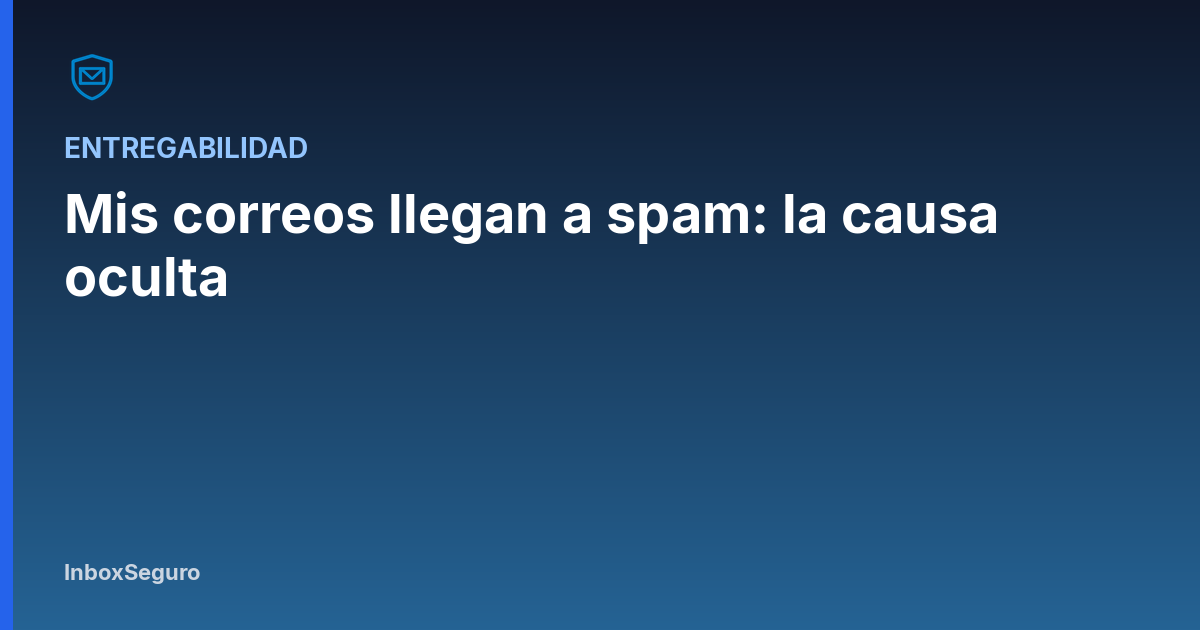
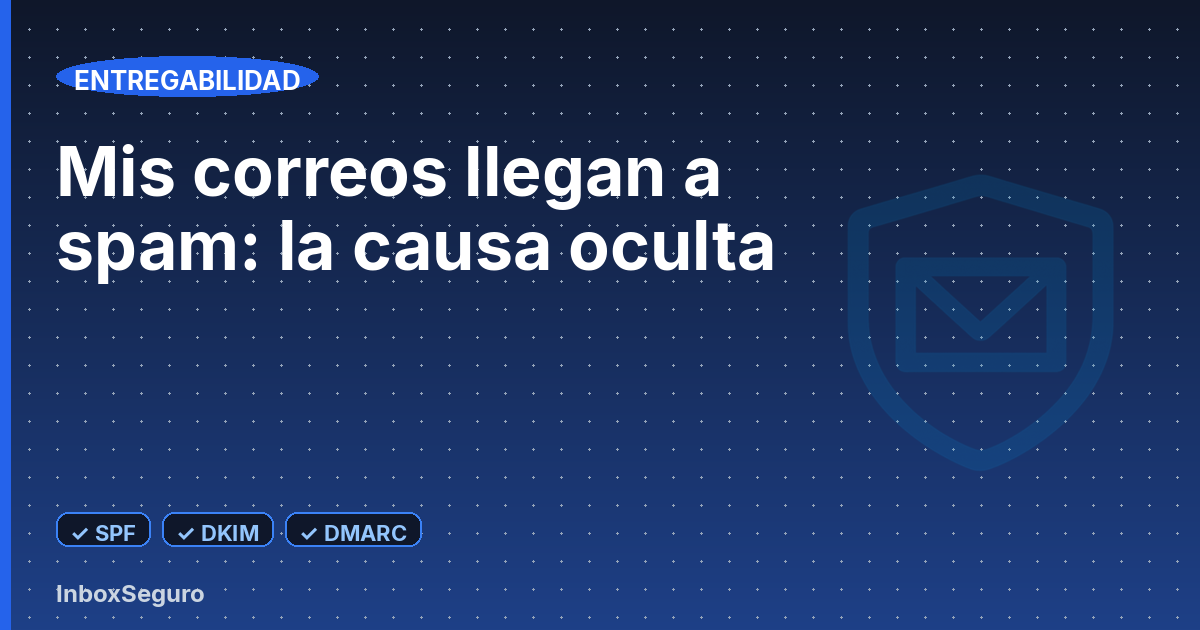
fix(blog): portadas con título grande, píldora y trama de marca
Rediseña covers 1200x630 (categoría en píldora, escudo semitransparente,
chips SPF/DKIM/DMARC, trama) y regenera la del artículo de ejemplo.

diff --git a/blog/index.html b/blog/index.html
@@ -23,7 +23,7 @@
     <link href="https://fonts.googleapis.com/css2?family=Inter:wght@300;400;500;600;700;800&display=swap" rel="stylesheet">
     <link rel="stylesheet" href="https://cdnjs.cloudflare.com/ajax/libs/font-awesome/6.4.0/css/all.min.css">
     <link rel="stylesheet" href="/styles.css?v=1.0.7">
-    <link rel="stylesheet" href="/blog.css?v=1.1.0">
+    <link rel="stylesheet" href="/blog.css?v=1.2.1">
     
 </head>
 <body class="bg-white text-slate-800 antialiased relative min-h-screen flex flex-col">

diff --git a/scripts/build_blog.py b/scripts/build_blog.py
@@ -375,7 +375,8 @@ def _cover_fingerprint(title: str, category_label: str, logo_path: Path) -> str:
     logo_hash = ""
     if logo_path.is_file():
         logo_hash = hashlib.sha256(logo_path.read_bytes()).hexdigest()[:16]
-    payload = f"v1|{title}|{category_label}|{logo_hash}"
+    # v2: tipografía grande, píldora de categoría, trama y chips SPF/DKIM/DMARC
+    payload = f"v2|{title}|{category_label}|{logo_hash}"
     return hashlib.sha256(payload.encode("utf-8")).hexdigest()[:24]
 
 
@@ -417,47 +418,81 @@ def generate_cover_png(post: Post, force: bool = False) -> Path | None:
     img = Image.new("RGB", (width, height), "#0f172a")
     draw = ImageDraw.Draw(img)
 
-    # Degradado simple azul oscuro → azul marca
+    # Degradado azul oscuro → marca
     for y in range(height):
         t = y / (height - 1)
-        r = int(15 + (37 - 15) * t)
-        g = int(23 + (99 - 23) * t)
-        b = int(42 + (235 - 42) * t * 0.55)
+        r = int(15 + (30 - 15) * t)
+        g = int(23 + (64 - 23) * t)
+        b = int(42 + (175 - 42) * t * 0.7)
         draw.line([(0, y), (width, y)], fill=(r, g, b))
 
-    # Acento
-    draw.rectangle([0, 0, 12, height], fill="#2563eb")
+    # Trama sutil (puntos)
+    for x in range(28, width, 28):
+        for y in range(28, height, 28):
+            draw.ellipse([x, y, x + 2, y + 2], fill=(148, 163, 184,))
+
+    # Acento izquierdo
+    draw.rectangle([0, 0, 10, height], fill="#2563eb")
 
     font_path = _find_inter_font()
     if font_path:
-        font_cat = ImageFont.truetype(str(font_path), 28)
-        font_title = ImageFont.truetype(str(font_path), 54)
-        font_brand = ImageFont.truetype(str(font_path), 22)
+        font_cat = ImageFont.truetype(str(font_path), 26)
+        font_title = ImageFont.truetype(str(font_path), 68)
+        font_brand = ImageFont.truetype(str(font_path), 24)
+        font_chip = ImageFont.truetype(str(font_path), 22)
     else:
         font_cat = ImageFont.load_default()
         font_title = ImageFont.load_default()
         font_brand = ImageFont.load_default()
+        font_chip = ImageFont.load_default()
 
-    # Logo
-    logo_h = 56
+    # Escudo grande semitransparente a la derecha
     if LOGO_PATH.is_file():
         logo = Image.open(LOGO_PATH).convert("RGBA")
+        logo_h = 360
         ratio = logo_h / logo.height
         logo = logo.resize((max(1, int(logo.width * ratio)), logo_h), Image.Resampling.LANCZOS)
-        img.paste(logo, (64, 48), logo)
+        # bajar opacidad
+        alpha = logo.split()[-1].point(lambda p: int(p * 0.18))
+        logo.putalpha(alpha)
+        img_rgba = img.convert("RGBA")
+        img_rgba.alpha_composite(logo, (width - logo.width - 40, (height - logo.height) // 2))
+        img = img_rgba.convert("RGB")
+        draw = ImageDraw.Draw(img)
 
-    draw.text((64, 130), post.category_label.upper(), font=font_cat, fill="#93c5fd")
+    # Categoría como píldora
+    cat = post.category_label.upper()
+    cat_bbox = draw.textbbox((0, 0), cat, font=font_cat)
+    cat_w = cat_bbox[2] - cat_bbox[0]
+    cat_h = cat_bbox[3] - cat_bbox[1]
+    pad_x, pad_y = 18, 10
+    pill = [56, 56, 56 + cat_w + pad_x * 2, 56 + cat_h + pad_y * 2]
+    draw.rounded_rectangle(pill, radius=999, fill="#2563eb")
+    draw.text((56 + pad_x, 56 + pad_y - 2), cat, font=font_cat, fill="#ffffff")
 
-    # Título con wrap
-    max_width = width - 128
+    # Título grande (deja margen derecho para el escudo)
+    max_width = width - 340
     lines = _wrap_text(draw, post.title, font_title, max_width, max_lines=4)
-    y = 180
+    y = 130
     for line in lines:
-        draw.text((64, y), line, font=font_title, fill="#ffffff")
+        draw.text((56, y), line, font=font_title, fill="#ffffff")
         bbox = draw.textbbox((0, 0), line, font=font_title)
-        y += (bbox[3] - bbox[1]) + 10
+        y += (bbox[3] - bbox[1]) + 8
 
-    draw.text((64, height - 72), "InboxSeguro", font=font_brand, fill="#cbd5e1")
+    # Chips SPF / DKIM / DMARC
+    chip_y = height - 118
+    chip_x = 56
+    for label in ("SPF", "DKIM", "DMARC"):
+        text = f"✓ {label}"
+        tb = draw.textbbox((0, 0), text, font=font_chip)
+        tw, th = tb[2] - tb[0], tb[3] - tb[1]
+        box = [chip_x, chip_y, chip_x + tw + 28, chip_y + th + 18]
+        draw.rounded_rectangle(box, radius=12, fill=(15, 23, 42), outline=(59, 130, 246), width=2)
+        draw.text((chip_x + 14, chip_y + 7), text, font=font_chip, fill="#93c5fd")
+        chip_x = box[2] + 12
+
+    # Una sola marca
+    draw.text((56, height - 52), "InboxSeguro", font=font_brand, fill="#cbd5e1")
 
     img.save(out_file, format="PNG", optimize=True)
     meta_file.write_text(fingerprint + "\n", encoding="utf-8")
@@ -484,7 +519,6 @@ def _wrap_text(draw, text: str, font, max_width: int, max_lines: int = 4) -> lis
     if len(lines) < max_lines:
         lines.append(current)
     elif lines:
-        # Truncar última línea
         last = lines[-1]
         while last and draw.textbbox((0, 0), last + "…", font=font)[2] > max_width:
             last = last[:-1]
